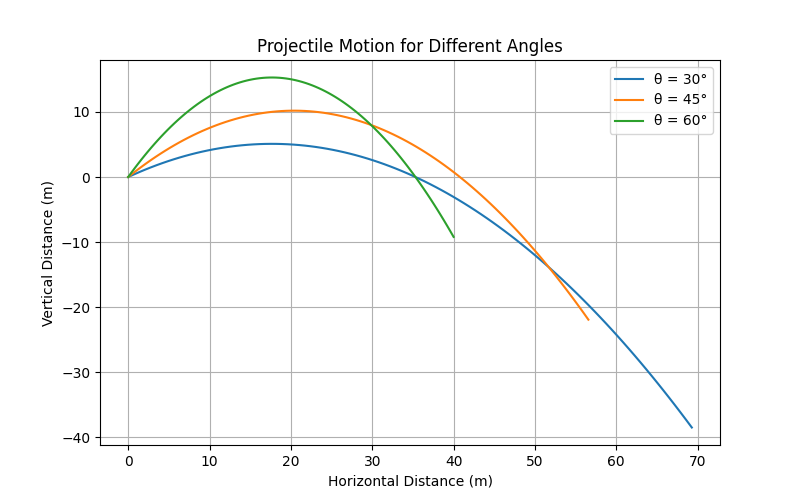
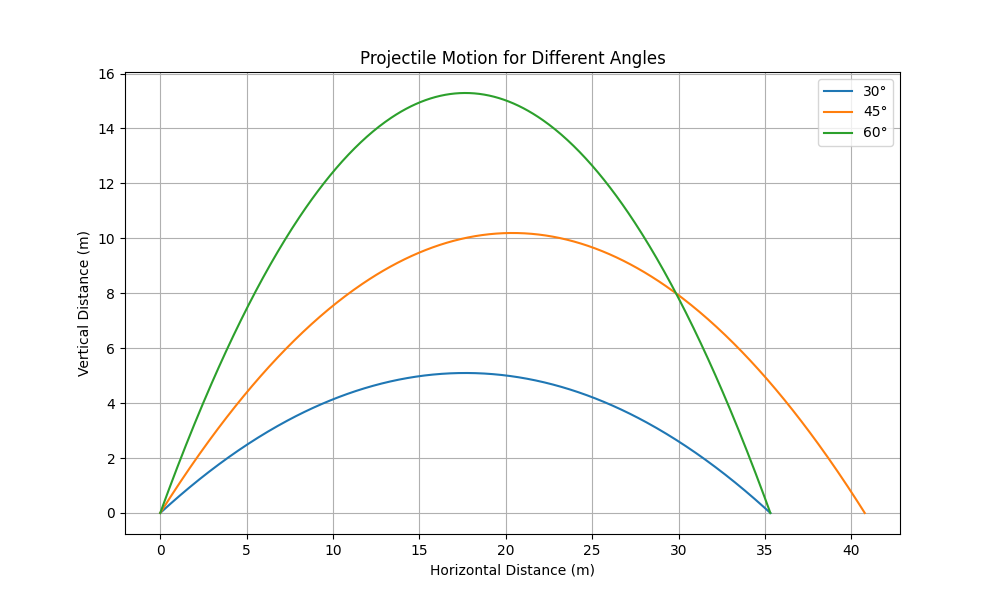
update

diff --git a/docs/projectile.py b/docs/projectile.py
@@ -1,31 +1,41 @@
 import numpy as np
 import matplotlib.pyplot as plt
 
-# Constants
-g = 9.81  # Gravity (m/s^2)
-v0 = 20   # Initial velocity (m/s)
-angles = [30, 45, 60]  # Different launch angles
-t = np.linspace(0, 4, num=100)  # Time array
+# Initial conditions
+v0 = 20  # initial velocity in m/s
+angles = [30, 45, 60]  # launch angles in degrees
+g = 9.81  # acceleration due to gravity in m/s^2
 
-# Plot trajectories for different angles
-plt.figure(figsize=(8, 5))
+# Time of flight function
+def calculate_trajectory(v0, angle):
+    angle_rad = np.radians(angle)  # Convert angle to radians
+    t_flight = 2 * v0 * np.sin(angle_rad) / g  # Total time of flight
+    t = np.linspace(0, t_flight, num=500)  # Time intervals for plotting
 
-for theta in angles:
-    theta_rad = np.radians(theta)
-    v0x = v0 * np.cos(theta_rad)
-    v0y = v0 * np.sin(theta_rad)
+    # Horizontal and vertical components of velocity
+    vx = v0 * np.cos(angle_rad)
+    vy = v0 * np.sin(angle_rad)
 
-    x = v0x * t
-    y = v0y * t - 0.5 * g * t**2
+    # Calculate the x and y positions at each time step
+    x = vx * t
+    y = vy * t - 0.5 * g * t**2
+    return x, y
 
-    plt.plot(x, y, label=f'θ = {theta}°')
+# Plot the trajectory for each angle
+plt.figure(figsize=(10, 6))
+for angle in angles:
+    x, y = calculate_trajectory(v0, angle)
+    plt.plot(x, y, label=f'{angle}°')
 
+# Labels and title
+plt.title('Projectile Motion for Different Angles')
 plt.xlabel('Horizontal Distance (m)')
 plt.ylabel('Vertical Distance (m)')
-plt.title('Projectile Motion for Different Angles')
 plt.legend()
-plt.grid()
+plt.grid(True)
+
+# Save the plot as an image
+plt.savefig('projectile_motion.png')  # Save the image to the current directory
+
+# Show the plot
 plt.show()
-
-plt.savefig("projectile_motion.png")  # Save plot as an image
-

diff --git a/docs/1 Physics/1 Mechanics/Problem_1.md b/docs/1 Physics/1 Mechanics/Problem_1.md
@@ -75,8 +75,9 @@ R = \frac{v_0^2 \sin 2\theta}{g}
 - The **trajectory is a symmetric parabola**.
 
 
-## Projectile Motion Simulation
+# Projectile Motion Simulation
 
 The following graph shows the trajectory of a projectile launched at different angles.
 
-![Projectile Motion](projectile_motion.png)
+![Projectile Motion](/Users/simonmtemeri/Documents/solutions_repo/docs/projectile_motion.pngprojectile_motion.png)
+
